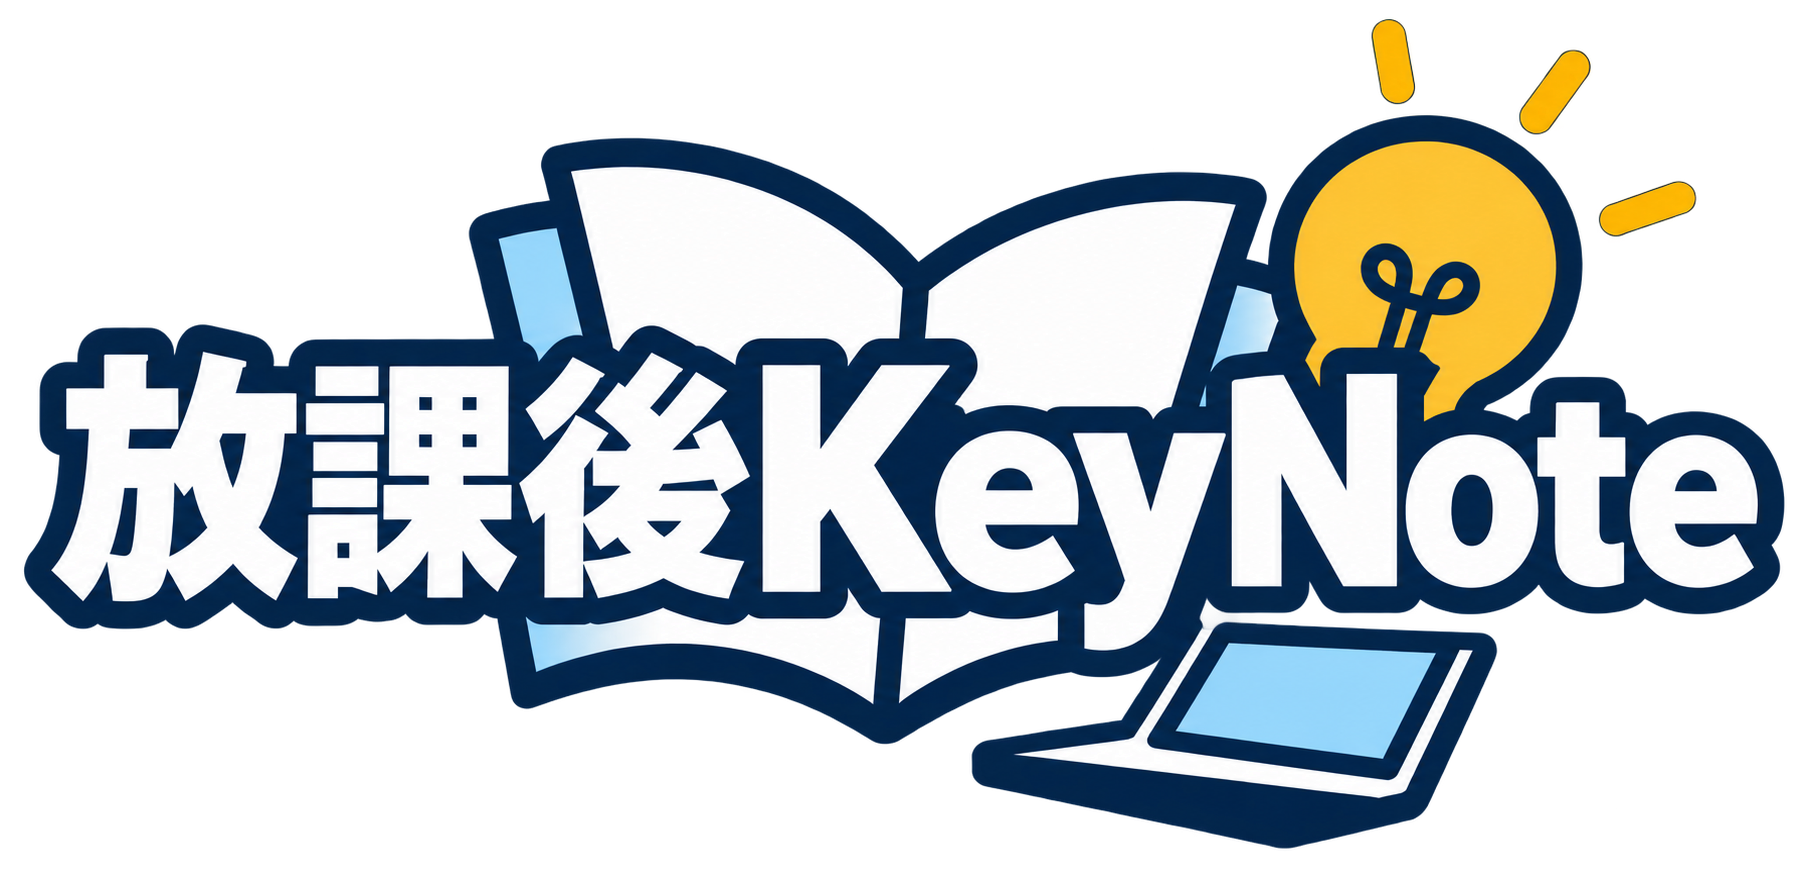
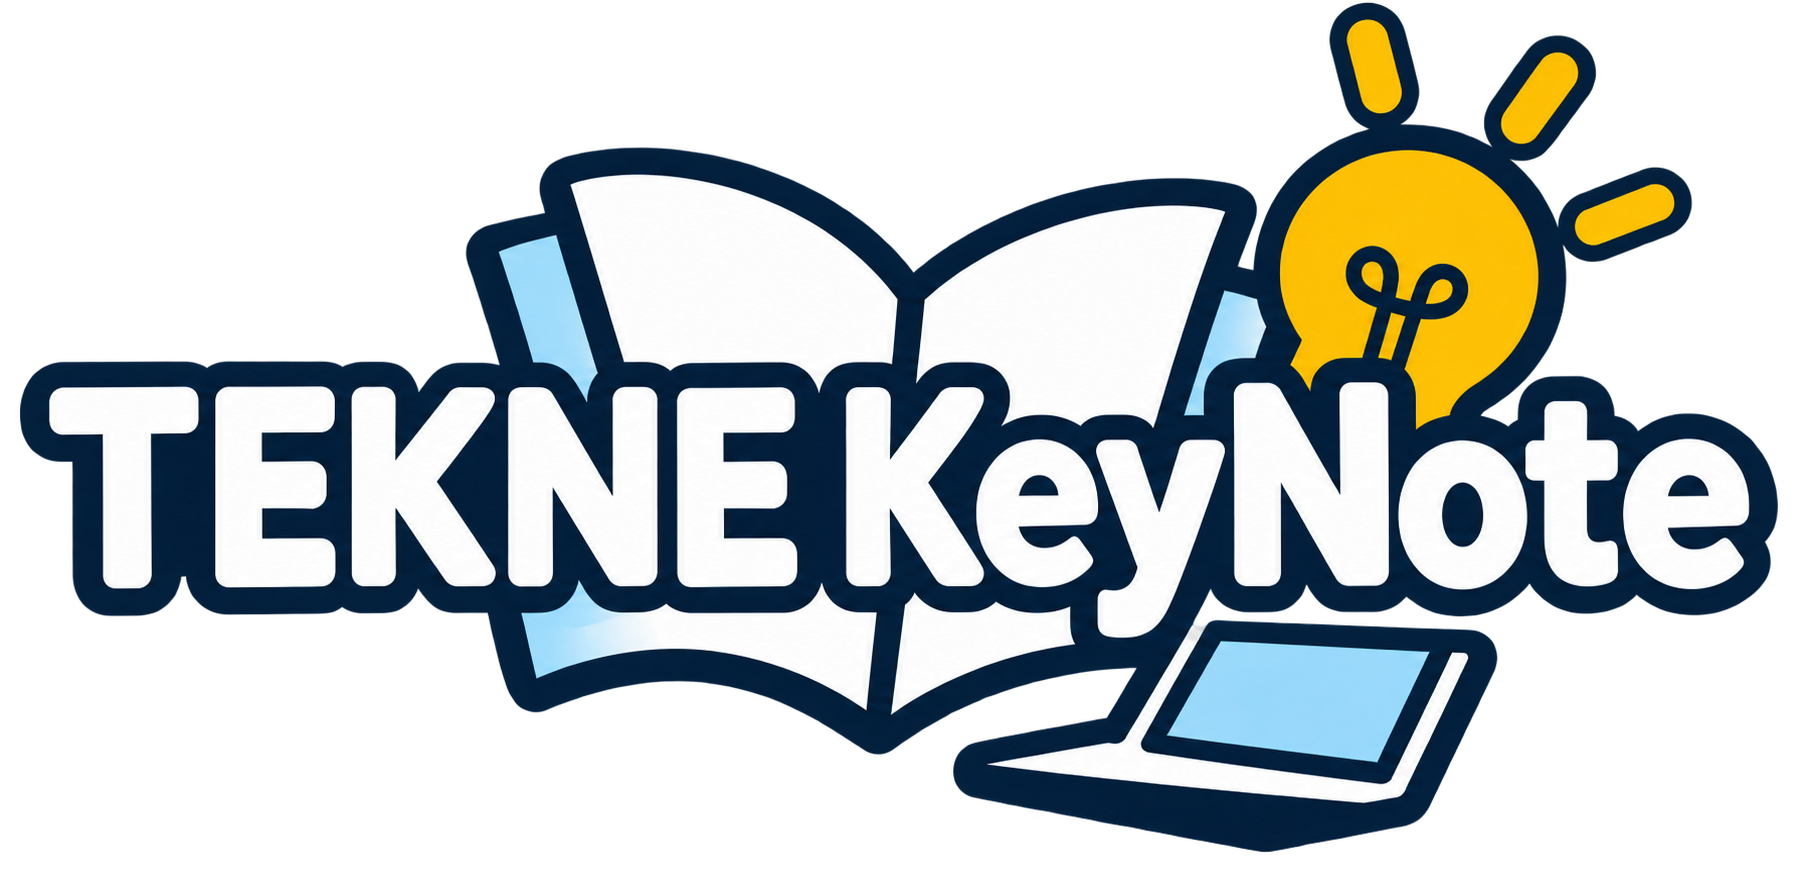
20261114172923

Changed region(s): [[0.0, 0.0, 0.9945, 0.9897], [0.2797, 0.8041, 0.3108, 0.8351]]

diff --git a/main/templates/base.html b/main/templates/base.html
@@ -11,7 +11,7 @@
         <link rel="preconnect" href="https://fonts.googleapis.com">
         <link rel="preconnect" href="https://fonts.gstatic.com" crossorigin>
         <link rel="stylesheet" href="https://fonts.googleapis.com/css2?family=Zen+Kaku+Gothic+New:wght@300;400;500;700&display=swap">
-        <link rel="stylesheet" href="/static/student/theme.css">
+        <link rel="stylesheet" href="/static/student/theme.css?v=logo-3">
         <link rel="icon" href="/static/icon.ico">
         {% block css %}
         {% endblock %}
@@ -27,7 +27,7 @@
         <div class="student-layout" id="student-layout">
             <aside class="student-sidebar" id="student-sidebar" aria-label="生徒用メニュー">
                 <div class="student-brand">
-                    <a class="aoharu-brand" href="/dashboard" aria-label="工作室テクネ ダッシュボードへ"><img class="aoharu-brand-mark" src="/static/aoharu/logo-scissors.svg" alt=""><span class="aoharu-brand-text">工作室　テクネ</span></a>
+                    <a class="student-brand-logo" href="/dashboard" aria-label="TEKNE KeyNote 生徒用 ダッシュボードへ"><img src="/static/top-logo.png" alt="TEKNE KeyNote" width="330" height="160"><span class="student-brand-role">生徒用</span></a>
                     <button class="student-icon-button student-sidebar-close" type="button" data-nav-close aria-label="メニューを閉じる">{{ icons.icon("close") }}</button>
                 </div>
                 <nav class="student-nav" aria-label="生徒用メニュー">
@@ -39,13 +39,13 @@
                     <div class="student-nav-group">
                         <p class="student-nav-heading">研究</p>
                         {% if student_features.studies_add %}{{ nav_link('/addform', 'PDFを提出', 'file-plus') }}{% endif %}
+                        {% if student_features.studies_list %}{{ nav_link('/studylist', '提出物一覧', 'list') }}{% endif %}
                         {{ nav_link('/tekne-chat', 'ワークスペース', 'briefcase') }}
                     </div>
-                    {% if student_features.community or student_features.studies_list %}
+                    {% if student_features.community %}
                     <div class="student-nav-group">
                         <p class="student-nav-heading">交流</p>
-                        {% if student_features.community %}{{ nav_link('/community', 'TEKNEコミュニティ', 'users') }}{% endif %}
-                        {% if student_features.studies_list %}{{ nav_link('/studylist', '提出物一覧', 'list') }}{% endif %}
+                        {{ nav_link('/community', 'TEKNEコミュニティ', 'users') }}
                     </div>
                     {% endif %}
                     {% if student_features.workshop_reservation or student_features.mentor_reservation or student_features.equipment_reservation %}

diff --git a/main/templates/teacher/school_features.html b/main/templates/teacher/school_features.html
@@ -14,7 +14,7 @@
                 <li{% if key in global_disabled %} class="teacher-feature-disabled-by-admin"{% endif %}>
                     <label><span>{{ label }}</span><input type="checkbox" name="enabled:{{ key }}" value="1"{% if settings[key] %} checked{% endif %}{% if key in global_disabled %} disabled aria-label="{{ label }}。管理者が全体設定で無効にしています"{% endif %}><span class="teacher-feature-switch" aria-hidden="true"></span></label>
                     {% if key in global_disabled %}<p class="teacher-global-feature-note">管理者が全体設定で無効にしています</p>{% endif %}
-                    <p class="teacher-school-feature-description">{% if key == 'dashboard' %}予約状況などの様々な情報を一覧で確認できます{% elif key == 'studies_add' %}生徒が研究成果をPDFで提出できます。{% elif key == 'studies_list' %}生徒が自分の高校、または全国の高校生の研究成果の一覧を確認できます。{% elif key == 'community' %}生徒が全国の高校生とつながれるTEKNEコミュニティを閲覧・利用できます。{% elif key == 'workshop_reservation' %}生徒がTEKNE工作室の空き状況を確認し、利用予約をすることができます。{% elif key == 'mentor_reservation' %}大学生メンターからのサポートを予約することができます。{% elif key == 'equipment_reservation' %}実験器具の在庫を確認し、貸し出しを予約できます。{% endif %}</p>
+                    <p class="teacher-school-feature-description">{% if key == 'dashboard' %}予約状況などの様々な情報を一覧で確認できます{% elif key == 'studies_add' %}生徒が研究成果をPDFで提出できます。{% elif key == 'studies_list' %}生徒が自分の提出物（所属グループの提出物を含む）の一覧を確認できます。{% elif key == 'community' %}生徒が全国の高校生とつながれるTEKNEコミュニティを閲覧・利用できます。{% elif key == 'workshop_reservation' %}生徒がTEKNE工作室の空き状況を確認し、利用予約をすることができます。{% elif key == 'mentor_reservation' %}大学生メンターからのサポートを予約することができます。{% elif key == 'equipment_reservation' %}実験器具の在庫を確認し、貸し出しを予約できます。{% endif %}</p>
                 </li>
                 {% endfor %}
             </ul>

diff --git a/main/templates/login.html b/main/templates/login.html
@@ -8,7 +8,7 @@
         <link rel="preconnect" href="https://fonts.gstatic.com" crossorigin>
         <link rel="stylesheet" href="https://fonts.googleapis.com/css2?family=Zen+Kaku+Gothic+New:wght@300;400;500;700&display=swap">
         <link rel="stylesheet" href="/static/student/theme.css">
-        <link rel="stylesheet" href="/static/student/auth.css">
+        <link rel="stylesheet" href="/static/student/auth.css?v=logo-1">
         <link rel="icon" href="/static/icon.ico">
     </head>
     <body class="auth-body">
@@ -22,9 +22,9 @@
         {%- endmacro %}
 
         <header class="auth-top">
-            <a class="aoharu-brand" href="/login" aria-label="工作室テクネ">
-                <img class="aoharu-brand-mark" src="/static/aoharu/logo-scissors.svg" alt="">
-                <span class="aoharu-brand-text" data-brand-text>工作室　テクネ</span>
+            <a class="auth-brand-logo" href="/login" aria-label="TEKNE KeyNote">
+                <img src="/static/top-logo.png" alt="TEKNE KeyNote" width="330" height="160">
+                <span class="auth-brand-mode" data-brand-text hidden>先生用</span>
             </a>
         </header>
 
@@ -92,7 +92,7 @@
                 var brandText = document.querySelector("[data-brand-text]");
                 function setTeacherMode(on) {
                     document.body.classList.toggle("is-teacher-mode", on);
-                    if (brandText) brandText.textContent = on ? "先生の工作室　テクネ" : "工作室　テクネ";
+                    if (brandText) brandText.hidden = !on;
                 }
                 document.getElementById("student_form_btn").addEventListener("click", function () { setTeacherMode(false); });
                 document.getElementById("teacher_form_btn").addEventListener("click", function () { setTeacherMode(true); });

diff --git a/main/templates/admin/base.html b/main/templates/admin/base.html
@@ -10,7 +10,7 @@
         <link rel="preconnect" href="https://fonts.gstatic.com" crossorigin>
         <link rel="stylesheet" href="https://fonts.googleapis.com/css2?family=Zen+Kaku+Gothic+New:wght@300;400;500;700&display=swap">
         <link rel="stylesheet" href="/static/staff/theme.css">
-        <link rel="stylesheet" href="/static/admin/admin.css">
+        <link rel="stylesheet" href="/static/admin/admin.css?v=logo-1">
 
         {% block css %}
         {% endblock %}
@@ -25,7 +25,7 @@
         <div class="staff-layout admin-layout" id="staff-layout">
             <aside class="staff-sidebar sidebar" id="staff-sidebar" aria-label="管理者メニュー">
                 <div class="staff-brand">
-                    <a class="brand admin-brand" href="/admin" aria-label="管理者ダッシュボードへ"><img src="/static/top.png" alt="TEKNE"><span class="staff-role-badge">管理者</span></a>
+                    <a class="brand admin-brand" href="/admin" aria-label="管理者ダッシュボードへ"><img src="/static/top-logo.png" alt="TEKNE KeyNote" width="330" height="160"><span class="staff-role-badge">管理者</span></a>
                     <button class="staff-icon-button staff-sidebar-close" type="button" data-nav-close aria-label="メニューを閉じる">{{ icons.icon("close") }}</button>
                 </div>
                 <nav class="staff-nav nav-menu" aria-label="管理者メニュー">

diff --git a/main/static/student/auth.css b/main/static/student/auth.css
@@ -36,6 +36,13 @@ body.auth-body {
 .auth-top .aoharu-brand-mark { width: 64px; height: 64px; }
 .auth-top .aoharu-brand-text { padding: 0 64px 14px 18px; font-size: clamp(28px, 3.4vw, 46px); }
 
+/* ロゴ画像（static/top.png を縮小した top-logo.png） */
+.auth-brand-logo { display: inline-flex; align-items: flex-end; gap: 12px; max-width: 100%; text-decoration: none; }
+.auth-brand-logo img { display: block; width: auto; height: 96px; max-width: 100%; object-fit: contain; }
+/* 「先生」タブを選んでいる間だけロゴの横に出す */
+.auth-brand-mode { margin-bottom: 10px; padding: 4px 12px; border-radius: 999px; background: #fff; color: #6b4f2a; font-size: 15px; font-weight: 700; white-space: nowrap; }
+.auth-brand-mode[hidden] { display: none; }
+
 /* ---------- 水色の面 ---------- */
 
 .auth-stage {
@@ -360,6 +367,8 @@ body.auth-body {
     .auth-top { padding: 16px 16px 0; }
     .auth-top .aoharu-brand-mark { width: 44px; height: 44px; }
     .auth-top .aoharu-brand-text { padding: 0 32px 10px 10px; font-size: 26px; }
+    .auth-brand-logo img { height: 64px; }
+    .auth-brand-mode { margin-bottom: 6px; font-size: 13px; }
     .auth-stage { padding: 8px 16px 48px; }
     .auth-ground { padding: 40px 16px 48px; }
     .auth-ground-button { min-height: 64px; font-size: 24px; border-width: 5px; }

diff --git a/main/static/admin/admin.css b/main/static/admin/admin.css
@@ -1,7 +1,7 @@
 /* 管理者用の画面部品（レイアウトと配色トークンは /static/staff/theme.css） */
 
-.admin-brand { display: flex; align-items: center; gap: 4px; min-width: 0; text-decoration: none; }
-.staff-brand .admin-brand img { width: 118px; }
+.admin-brand { display: flex; align-items: center; justify-content: center; gap: 4px; min-width: 0; margin: 0 auto; text-decoration: none; }
+.staff-brand .admin-brand img { width: 140px; height: auto; }
 .admin-brand .staff-role-badge { margin-left: 2px; }
 .admin-super-badge { margin: 0 4px 0 0; }
 .staff-sidebar-footer .logout-link { color: var(--text-muted); }
@@ -79,7 +79,7 @@ body.login-page {
 }
 
 .login-card { width: min(100%, 440px); padding: 40px; border: 1px solid var(--border); border-radius: 24px; background: var(--surface); box-shadow: var(--shadow-lg); }
-.login-logo { display: block; width: 160px; margin: 0 auto 18px; }
+.login-logo { display: block; width: 160px; height: auto; margin: 0 auto 18px; }
 .login-card .login-eyebrow { display: table; margin: 0 auto 10px; }
 .login-card h1 { margin: 0 0 6px; color: var(--text-strong); font-size: 26px; font-weight: 800; text-align: center; }
 .login-description { margin: 0 0 24px; color: var(--text-muted); font-size: 14px; text-align: center; }

diff --git a/main/templates/registration.html b/main/templates/registration.html
@@ -8,14 +8,13 @@
         <link rel="preconnect" href="https://fonts.gstatic.com" crossorigin>
         <link rel="stylesheet" href="https://fonts.googleapis.com/css2?family=Zen+Kaku+Gothic+New:wght@300;400;500;700&display=swap">
         <link rel="stylesheet" href="/static/student/theme.css">
-        <link rel="stylesheet" href="/static/student/auth.css">
+        <link rel="stylesheet" href="/static/student/auth.css?v=logo-1">
         <link rel="icon" href="/static/icon.ico">
     </head>
     <body class="auth-body">
         <header class="auth-top">
-            <a class="aoharu-brand" href="/login" aria-label="工作室テクネ ログインへ">
-                <img class="aoharu-brand-mark" src="/static/aoharu/logo-scissors.svg" alt="">
-                <span class="aoharu-brand-text">工作室　テクネ</span>
+            <a class="auth-brand-logo" href="/login" aria-label="TEKNE KeyNote ログインへ">
+                <img src="/static/top-logo.png" alt="TEKNE KeyNote" width="330" height="160">
             </a>
         </header>
         <main class="auth-stage auth-stage-register">

diff --git a/main/static/student/mypage.css b/main/static/student/mypage.css
@@ -108,7 +108,9 @@
     .student-layout:has(.mypage-page) { display: block; overflow-y: auto; }
     .student-layout:has(.mypage-page) .student-sidebar { flex-direction: row; flex-wrap: wrap; align-items: center; gap: 6px; width: 100%; height: auto; padding: 10px 12px; }
     .student-layout:has(.mypage-page) .student-brand { padding: 0; margin-right: auto; }
-    .student-layout:has(.mypage-page) .student-brand img { width: 90px; }
+    .student-layout:has(.mypage-page) .student-brand img { width: 90px; height: auto; }
+    .student-layout:has(.mypage-page) .student-brand-logo { height: auto; padding: 0; gap: 8px; }
+    .student-layout:has(.mypage-page) .student-brand-role { font-size: 13px; }
     .student-layout:has(.mypage-page) .student-nav { display: flex; order: 1; flex-basis: 100%; overflow-x: auto; padding-top: 6px; }
     .student-layout:has(.mypage-page) .student-nav-link { flex-shrink: 0; padding: 8px 10px; font-size: .8rem; }
     .student-layout:has(.mypage-page) .student-mypage-link,

diff --git a/main/templates/admin/first_password.html b/main/templates/admin/first_password.html
@@ -9,11 +9,11 @@
     <link rel="preconnect" href="https://fonts.gstatic.com" crossorigin>
     <link rel="stylesheet" href="https://fonts.googleapis.com/css2?family=Zen+Kaku+Gothic+New:wght@300;400;500;700&display=swap">
     <link rel="stylesheet" href="/static/staff/theme.css">
-    <link rel="stylesheet" href="/static/admin/admin.css">
+    <link rel="stylesheet" href="/static/admin/admin.css?v=logo-1">
 </head>
 <body class="login-page role-admin">
     <main class="login-card">
-        <img src="/static/top.png" alt="TEKNE" class="login-logo">
+        <img src="/static/top-logo.png" alt="TEKNE KeyNote" class="login-logo" width="330" height="160">
         <p class="login-eyebrow">管理者専用</p>
         <h1>初回パスワード設定</h1>
         <p class="login-description">臨時パスワードでの初回ログインです。今後使用するパスワードを設定してください。</p>

diff --git a/main/templates/admin/login.html b/main/templates/admin/login.html
@@ -9,11 +9,11 @@
         <link rel="preconnect" href="https://fonts.gstatic.com" crossorigin>
         <link rel="stylesheet" href="https://fonts.googleapis.com/css2?family=Zen+Kaku+Gothic+New:wght@300;400;500;700&display=swap">
         <link rel="stylesheet" href="/static/staff/theme.css">
-        <link rel="stylesheet" href="/static/admin/admin.css">
+        <link rel="stylesheet" href="/static/admin/admin.css?v=logo-1">
     </head>
     <body class="login-page role-admin">
         <main class="login-card">
-            <img src="/static/top.png" alt="TEKNE" class="login-logo">
+            <img src="/static/top-logo.png" alt="TEKNE KeyNote" class="login-logo" width="330" height="160">
             <p class="login-eyebrow">管理者専用</p>
             <h1>管理者ログイン</h1>
             <p class="login-description">サーバー管理者専用のログイン画面です。</p>

diff --git a/main/static/student/theme.css b/main/static/student/theme.css
@@ -168,6 +168,12 @@ a { color: var(--primary); }
 
 .student-brand .aoharu-brand-text { font-size: 24px; }
 
+/* 左上のロゴ画像（static/top.png を表示用に縮小した top-logo.png） */
+/* 左にロゴ、右に「生徒用」の文字を並べる */
+.student-brand-logo { display: flex; flex: 1; align-items: center; justify-content: space-between; gap: 10px; min-width: 0; height: 100%; padding: 8px 4px 8px 0; box-sizing: border-box; color: #fff; text-decoration: none; }
+.student-brand-logo img { display: block; width: auto; height: 100%; min-width: 0; max-width: 100%; object-fit: contain; }
+.student-brand-role { flex: none; font-size: 20px; font-weight: 700; letter-spacing: .12em; white-space: nowrap; }
+
 .student-brand .student-sidebar-close { display: none; color: #fff; }
 .student-brand .student-sidebar-close:hover { background: rgba(255, 255, 255, .2); color: #fff; }
 

diff --git a/main/templates/mypage.html b/main/templates/mypage.html
@@ -1,6 +1,6 @@
 {% extends "base.html" %}
 {% block title %}マイページ{% endblock %}
-{% block css %}<link rel="stylesheet" href="/static/student/mypage.css">{% endblock %}
+{% block css %}<link rel="stylesheet" href="/static/student/mypage.css?v=logo-2">{% endblock %}
 {% block content %}
 <div class="student-page mypage-page">
     <section class="student-page-hero">
